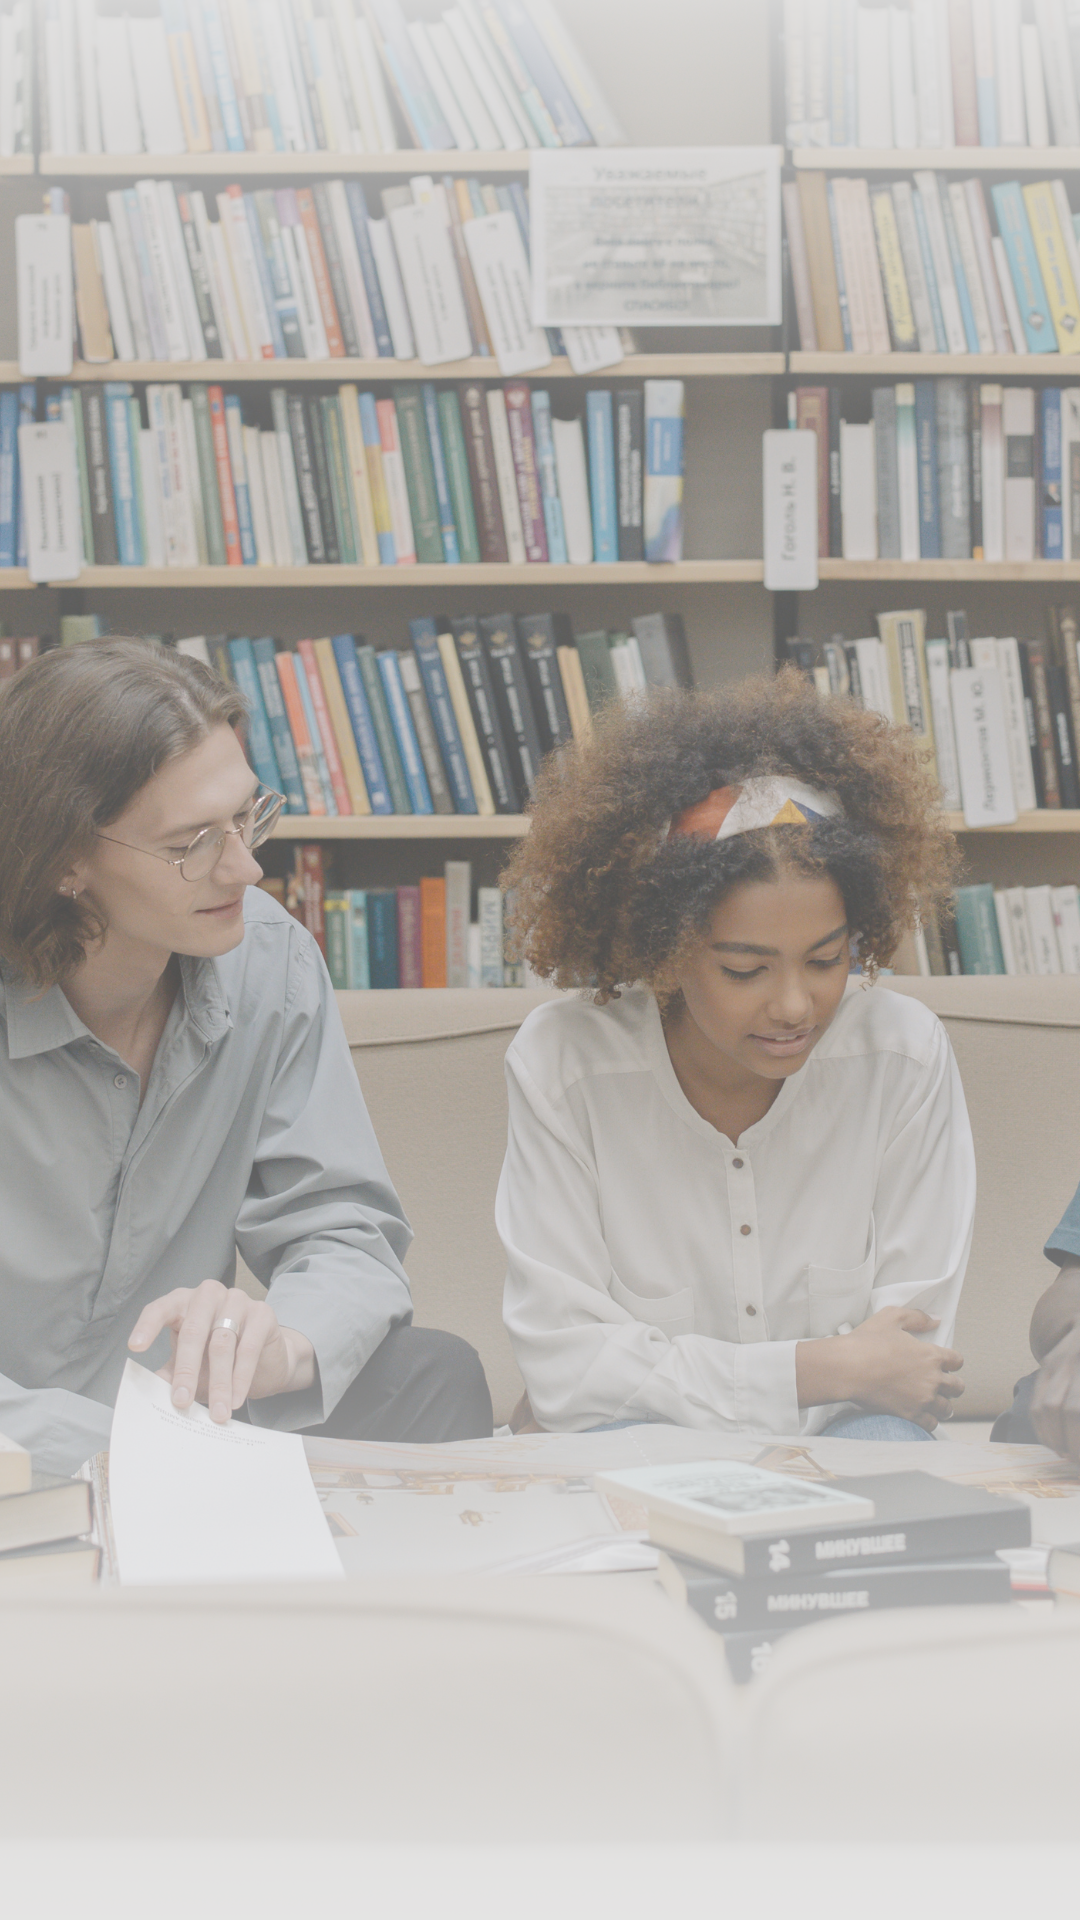
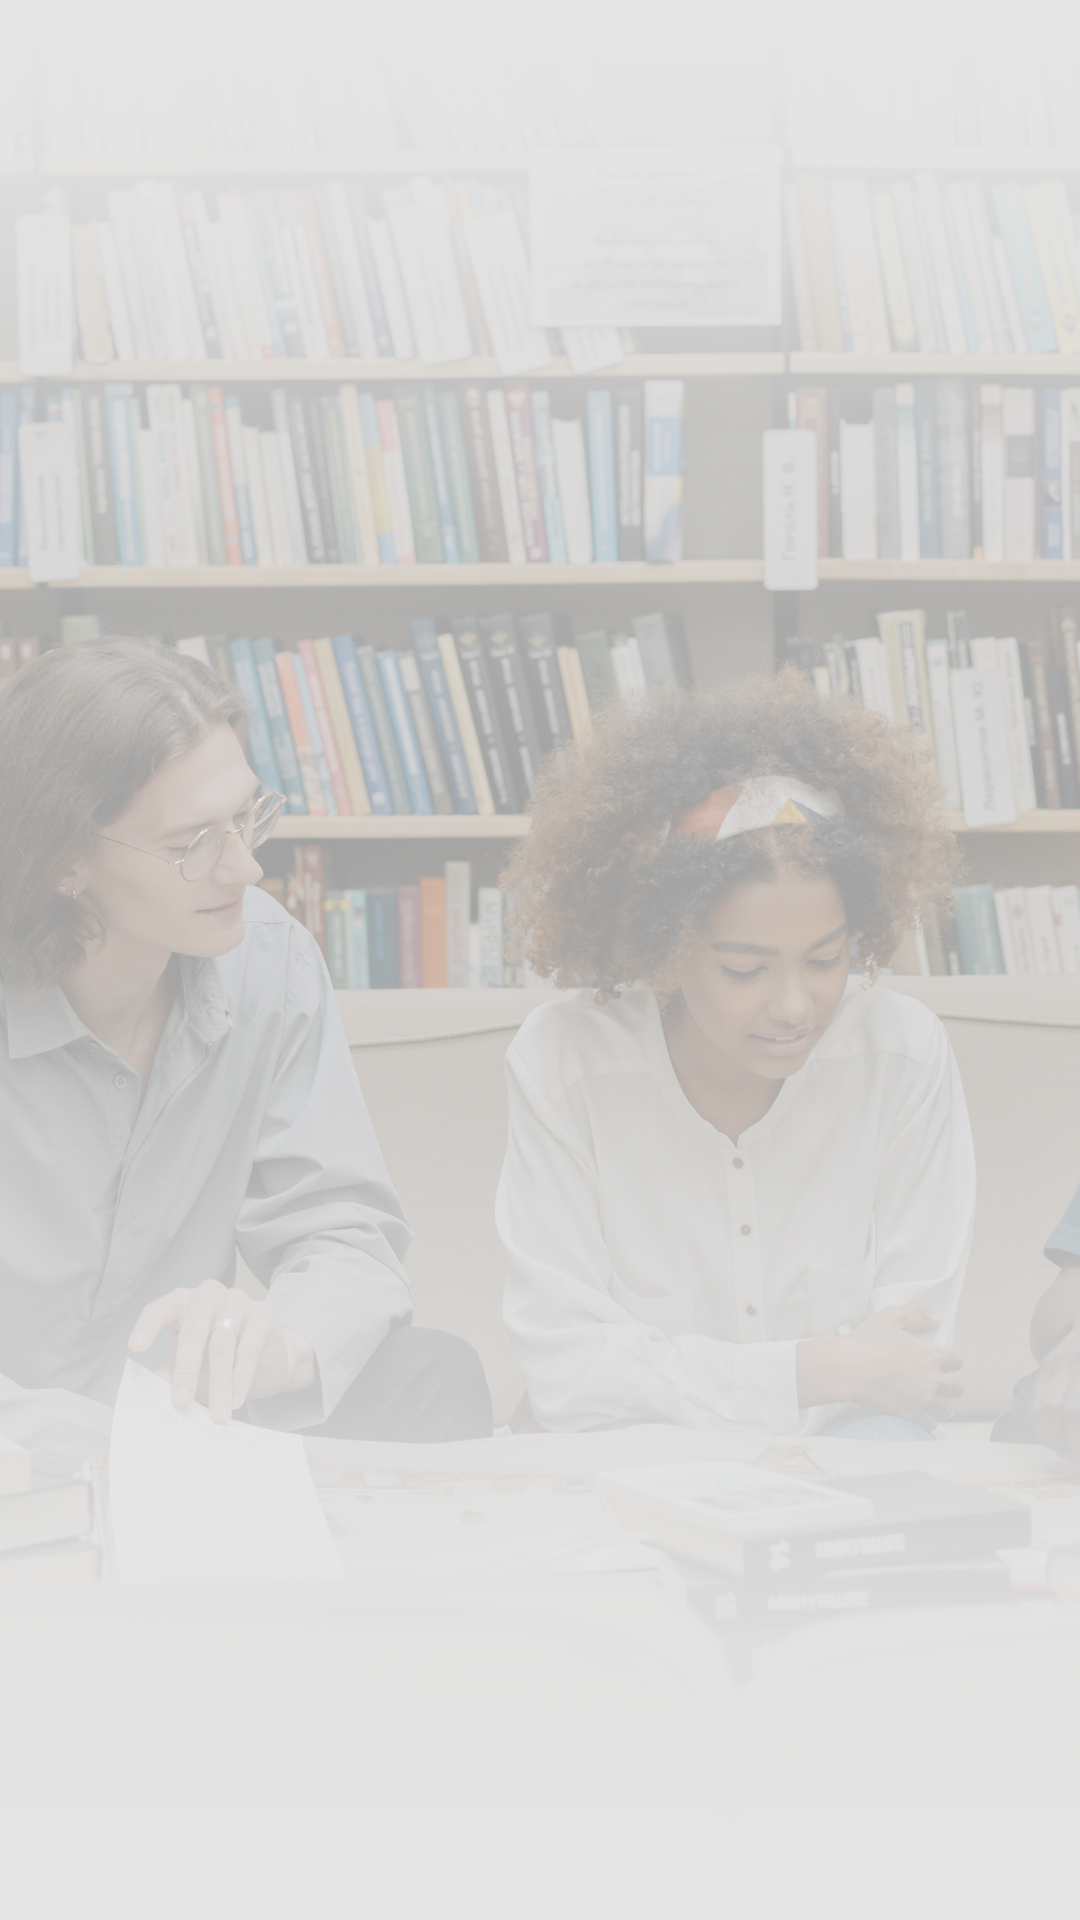
New update #8 - Merged WelcomeScreen, LoginScreen and RegisterScreen all together

diff --git a/app/screens/WelcomeScreen.js b/app/screens/WelcomeScreen.js
@@ -3,7 +3,7 @@ import { View, StyleSheet, Text, ImageBackground, Image } from "react-native";
 import colors from "../config/colors";
 import AppButton from "../components/AppButton";
 
-function WelcomeScreen() {
+function WelcomeScreen({navigation}) {
   return (
     <ImageBackground style={styles.container} source={require('../assets/Background.png')}>
       <View style={styles.logoContainer}>
@@ -11,8 +11,8 @@ function WelcomeScreen() {
         <Text style={styles.slogan}>We are connected!</Text>
       </View>
       <View style={styles.buttonsContainer}>
-        <AppButton title="Login" style={styles.button} />
-        <AppButton title="Register" style={styles.button} />
+        <AppButton title="Login" style={styles.button} onPress={() => navigation.navigate("Login")} />
+        <AppButton title="Register" style={styles.button} onPress={() => navigation.navigate("Register")} />
       </View>
     </ImageBackground>
   );

diff --git a/app/navigation/AuthNavigator.js b/app/navigation/AuthNavigator.js
@@ -1,0 +1,20 @@
+import React from "react";
+import { createStackNavigator } from "@react-navigation/stack";
+import WelcomeScreen from "../screens/WelcomeScreen";
+import LoginScreen from "../screens/LoginScreen";
+import RegisterScreen from "../screens/RegisterScreen";
+
+const Stack = createStackNavigator();
+
+const AuthNavigator = () => (
+  <Stack.Navigator>
+    <Stack.Screen
+      name="Welcome"
+      component={WelcomeScreen}
+      options={{ headerShown: false }}
+    />
+    <Stack.Screen name="Login" component={LoginScreen} />
+    <Stack.Screen name="Register" component={RegisterScreen} />
+  </Stack.Navigator>
+);
+export default AuthNavigator;

diff --git a/App.js b/App.js
@@ -2,12 +2,14 @@ import { NavigationContainer } from "@react-navigation/native";
 import React from "react-native";
 import NavigationTheme from "./app/navigation/NavigationTheme";
 import AppNavigator from "./app/navigation/AppNavigator";
+import AuthNavigator from "./app/navigation/AuthNavigator";
 
 // Main App component
 export default function App() {
   return (
     <NavigationContainer theme={NavigationTheme}>
-      <AppNavigator />
+      {/* <AppNavigator /> */}
+      <AuthNavigator/>
     </NavigationContainer>
   );
 }
